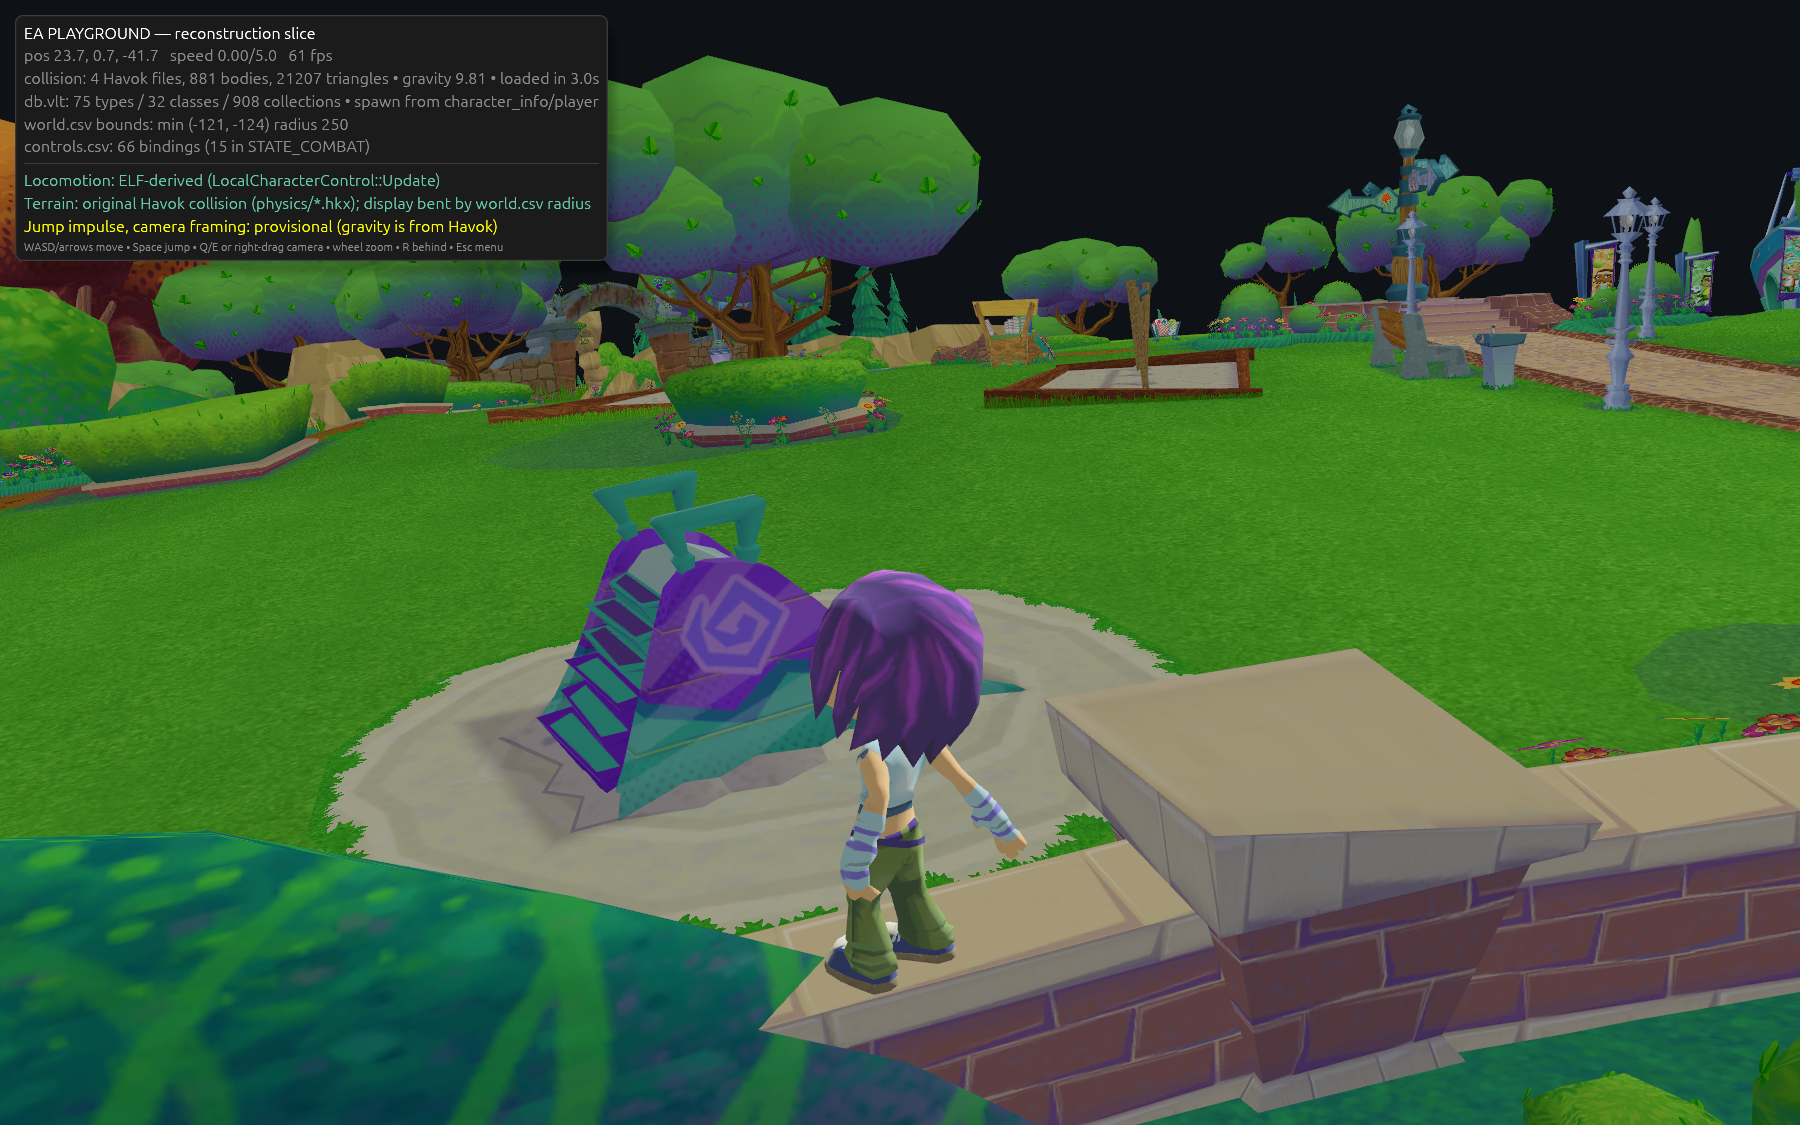
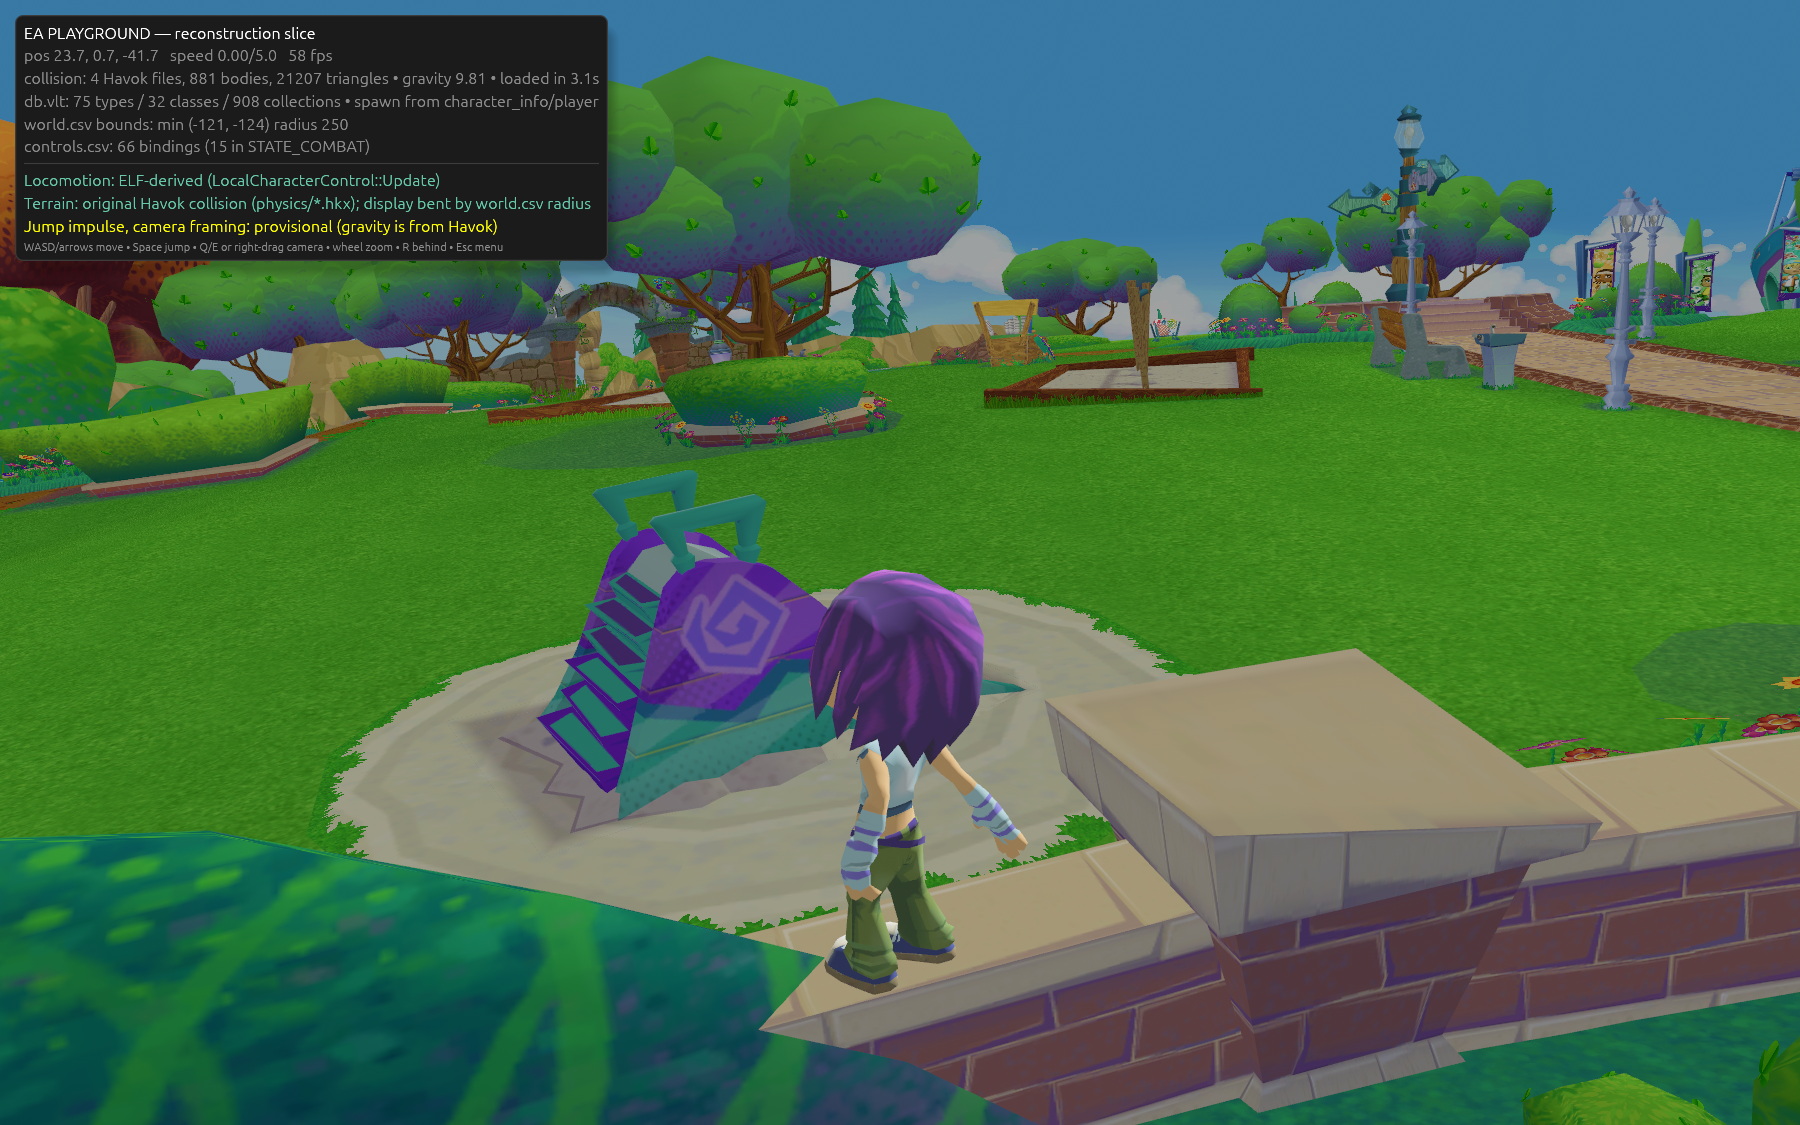
Add the SkyDome (skybox, mountain/city ring, rotating clouds) recovered from the executable
Sky was black; SkyDome::LoadGeometry/Draw/Update give the three layers, draw
order, origin placement and 0.012 rad/s cloud rotation. Rendered behind the
world by a dedicated sky camera.

Changed region(s): [[0.0, 0.0, 1.0, 0.3111], [0.2178, 0.2178, 0.4044, 0.3422], [0.0933, 0.3111, 0.1867, 0.3733]]

diff --git a/_bevy/src/game.rs b/_bevy/src/game.rs
@@ -2,7 +2,7 @@
 //! recovered locomotion (see `locomotion.rs`) drive a character.  Evidence per subsystem is shown
 //! in the HUD and written by `--selftest`; nothing here is labelled original unless it traces to
 //! the executable or a data file.
-use bevy::{prelude::*,render::view::window::screenshot::{Screenshot,save_to_disk},input::mouse::{AccumulatedMouseMotion,AccumulatedMouseScroll},window::{PrimaryWindow,RequestRedraw},winit::{WinitSettings,UpdateMode},world_serialization::WorldInstanceReady};
+use bevy::{camera::visibility::RenderLayers,prelude::*,render::view::window::screenshot::{Screenshot,save_to_disk},input::mouse::{AccumulatedMouseMotion,AccumulatedMouseScroll},window::{PrimaryWindow,RequestRedraw},winit::{WinitSettings,UpdateMode},world_serialization::WorldInstanceReady};
 use bevy_egui::{egui,EguiContexts,EguiTextureHandle};
 use serde::{Deserialize,Serialize};
 use serde_json::{Value,json};
@@ -37,6 +37,11 @@ pub fn bend(radius:f32,x:f32,z:f32)->f32{if radius<=0.{return 0.}let r2=(x*x+z*z
 #[derive(Component)] pub struct Player{loco:Locomotion,vy:f32,grounded:bool,speed:f32,facing:Vec3,weights:[f32;3],anim_ready:bool}
 #[derive(Component)] struct WorldLayer(String);
 #[derive(Component)] struct PlayerModel;
+/// SkyDome layers (`SkyDome::LoadGeometry` 0x803c6578): skybox, mountain/city ring, clouds; only the clouds turn.
+#[derive(Component)] struct SkyLayer{clouds:bool}
+#[derive(Component)] struct SkyCamera;
+const SKY_LAYER:usize=1;
+const SKY_MODELS:[(&str,bool);3]=[("skybox",false),("skybox_mountain_city_ring",false),("skybox_clouds",true)];
 
 #[derive(Resource,Default)] pub struct GameInput{pub x:f32,pub y:f32,pub jump:bool,pub scripted:bool}
 
@@ -107,7 +112,7 @@ pub struct Game{
     bridge:Bridge,jobs:VecDeque<Job>,pending:Option<(u64,String)>,results:HashMap<String,Value>,
     phase:Phase,started:Instant,pub log:Vec<String>,boot_image:Option<Handle<Image>>,boot_egui:Option<egui::TextureId>,
     layers:Vec<(String,String)>,layers_expected:usize,layers_ready:usize,layers_empty:usize,clip_handles:Vec<Handle<AnimationClip>>,
-    ground:Option<Ground>,build_wait:u32,player:Option<Entity>,pub spawn:Vec3,pub gravity:f32,pub world_radius:f32,pub collision_bodies:usize,pub collision_files:usize,
+    ground:Option<Ground>,build_wait:u32,player:Option<Entity>,pub spawn:Vec3,pub gravity:f32,pub world_radius:f32,sky_expected:usize,sky_ready:usize,sky_angle:f32,pub collision_bodies:usize,pub collision_files:usize,
     pub db_summary:String,pub start_dir:Vec3,pub spawn_from_db:bool,pub tri_count:usize,pub controls_rows:usize,pub combat_bindings:usize,pub world_bounds:Option<(f32,f32,f32)>,
     boot_shown:Option<Instant>,boot_shot:bool,pub load_seconds:f32,
     pub selftest:Option<SelfTest>,
@@ -135,6 +140,7 @@ impl Game{
         jobs.push_back(Job{key:"controls".into(),req:json!({"command":"inspect","source":format!("{}::controls.csv",src("csvs.viv"))})});
         let model=format!("{}::alicia.viv::alicia.o",src("characters/models/characters.viv"));
         let skel=format!("{}::player_skel.ske",src("characters/player_anims.viv"));let bank=format!("{}::player_anims.anm",src("characters/player_anims.viv"));
+        for (name,_) in SKY_MODELS{jobs.push_back(Job{key:format!("sky:{name}"),req:json!({"command":"preview","source":format!("{}::{name}.o",src(&format!("placeables/{name}.viv")))})});}
         for (name,index) in CLIPS{jobs.push_back(Job{key:format!("clip:{name}"),req:json!({"command":"preview","source":model,"skeleton":skel,"bank":bank,"index":index})});}
         // Player start from the game's own Attrib database (character_info/player), read by the Rust vault loader.
         let mut db_results=HashMap::new();
@@ -156,7 +162,7 @@ impl Game{
         }
         let mut g=Self{bridge:Bridge::start(),jobs,pending:None,results:HashMap::new(),phase:Phase::Loading,started:Instant::now(),log,
             boot_image:None,boot_egui:None,layers:vec![],layers_expected:0,layers_ready:0,layers_empty:0,clip_handles:vec![],ground:None,build_wait:0,player:None,spawn:Vec3::ZERO,
-            gravity:9.81,world_radius:0.,collision_bodies:0,collision_files:0,db_summary:String::new(),start_dir:Vec3::Z,spawn_from_db:false,tri_count:0,controls_rows:0,combat_bindings:0,world_bounds:None,boot_shown:None,boot_shot:false,load_seconds:0.,selftest};
+            gravity:9.81,world_radius:0.,sky_expected:0,sky_ready:0,sky_angle:0.,collision_bodies:0,collision_files:0,db_summary:String::new(),start_dir:Vec3::Z,spawn_from_db:false,tri_count:0,controls_rows:0,combat_bindings:0,world_bounds:None,boot_shown:None,boot_shot:false,load_seconds:0.,selftest};
         // (fields set below)
         g.apply_db(db_results);g
     }
@@ -165,7 +171,7 @@ impl Game{
 fn in_game(mode:Res<AppMode>)->bool{*mode==AppMode::Game}
 pub fn plugin(app:&mut App){
     app.init_resource::<GameInput>().insert_resource(Time::<Fixed>::from_hz(TICK_HZ as f64))
-        .add_systems(Update,(pump,build,read_input,camera,animate,selftest).chain().run_if(in_game))
+        .add_systems(Update,(pump,build,read_input,camera,sky_update,animate,selftest).chain().run_if(in_game))
         .add_systems(bevy_egui::EguiPrimaryContextPass,hud.run_if(in_game))
         .add_systems(FixedUpdate,movement.run_if(in_game));
 }
@@ -214,6 +220,14 @@ fn pump(mut commands:Commands,mut g:Option<ResMut<Game>>,assets:Res<AssetServer>
                     let _=e;g.layers.push((name,p));
                 }
             }
+            k if k.starts_with("sky:")=>{
+                if let Some(p)=scene_path(&value){
+                    let name=k.trim_start_matches("sky:");let clouds=SKY_MODELS.iter().any(|(n,c)|*n==name&&*c);
+                    commands.spawn((GameEntity,SkyLayer{clouds},RenderLayers::layer(SKY_LAYER),WorldAssetRoot(assets.load(GltfAssetLabel::Scene(0).from_asset(p))),Transform::IDENTITY,
+                        OriginalAsset{evidence:EvidenceLevel::AssetDerived,source:value["source"].as_str().unwrap_or("").into(),decoder_version:value["decoder_version"].as_str().unwrap_or("").into()})).observe(sky_ready);
+                    g.sky_expected+=1;
+                }
+            }
             k if k.starts_with("clip:")=>{
                 let p=scene_path(&value).unwrap_or_default();
                 g.clip_handles.push(assets.load(GltfAssetLabel::Animation(0).from_asset(p.clone())));
@@ -229,12 +243,31 @@ fn pump(mut commands:Commands,mut g:Option<ResMut<Game>>,assets:Res<AssetServer>
     }
     if g.pending.is_none(){
         if let Some(job)=g.jobs.pop_front(){let id=g.bridge.request(job.req);g.pending=Some((id,job.key));}
-        else if g.layers_ready>=g.layers_expected && g.clip_handles.len()==CLIPS.len(){
+        else if g.layers_ready>=g.layers_expected && g.sky_ready>=g.sky_expected && g.clip_handles.len()==CLIPS.len(){
             let _=&mut graphs;
             let boot_done=g.boot_shown.map(|t|t.elapsed().as_secs_f32()>=MIN_BOOT_SECONDS).unwrap_or(g.boot_image.is_none());
             if boot_done{g.phase=Phase::Building;g.log.push("world and player assets ready".into());}
         }
     }
+}
+
+/// Sky layers are unlit, double-sided, and confined to the sky render layer (drawn by the sky camera behind the world).
+fn sky_ready(ev:On<WorldInstanceReady>,mut commands:Commands,mut g:Option<ResMut<Game>>,children:Query<&Children>,mats:Query<&MeshMaterial3d<StandardMaterial>>,mut materials:ResMut<Assets<StandardMaterial>>){
+    for d in children.iter_descendants(ev.entity){
+        commands.entity(d).insert(RenderLayers::layer(SKY_LAYER));
+        if let Ok(m)=mats.get(d){if let Some(mut mat)=materials.get_mut(&m.0){mat.unlit=true;mat.cull_mode=None;mat.double_sided=true;}}
+    }
+    if let Some(g)=g.as_mut(){g.sky_ready+=1;let n=g.sky_ready;g.log.push(format!("sky layer ready ({n})"));}
+}
+
+/// `SkyDome::Update` (0x803c6694): the cloud layer's angle advances by 0.012 rad/s (wrapped at 2 pi); `Draw` (0x803c6724)
+/// rotates only the cloud model about Y.  The sky sits at the origin (`Initialise` 0x803c64d0), it does not follow the camera.
+const SKY_CLOUD_RATE:f32=0.012;
+fn sky_update(g:Option<ResMut<Game>>,time:Res<Time>,mut layers:Query<(&SkyLayer,&mut Transform),(Without<SkyCamera>,Without<GameCamera>)>,main:Query<&Transform,With<GameCamera>>,mut sky_cam:Query<&mut Transform,(With<SkyCamera>,Without<GameCamera>,Without<SkyLayer>)>){
+    let Some(mut g)=g else{return};
+    g.sky_angle=(g.sky_angle+SKY_CLOUD_RATE*time.delta_secs())%std::f32::consts::TAU;
+    for (l,mut t) in &mut layers{if l.clouds{t.rotation=Quat::from_rotation_y(g.sky_angle);}}
+    if let (Ok(m),Ok(mut c))=(main.single(),sky_cam.single_mut()){*c=*m;}
 }
 
 fn layer_ready(_e:On<WorldInstanceReady>,mut g:Option<ResMut<Game>>){if let Some(g)=g.as_mut(){g.layers_ready+=1;let n=g.layers_ready;g.log.push(format!("world layer ready ({n})"));}}
@@ -300,7 +333,11 @@ fn build(mut commands:Commands,mut g:Option<ResMut<Game>>,assets:Res<AssetServer
             }}
         });
     g.player=Some(player);
-    if cam.is_empty(){commands.spawn((GameEntity,GameCamera{yaw:(-g.start_dir.x).atan2(-g.start_dir.z),pitch:0.28,distance:k::HINGE_CAMERA_DISTANCE},Camera3d::default(),Transform::from_translation(g.spawn+Vec3::new(0.,2.,4.))));}
+    if cam.is_empty(){
+        // Sky camera (order -1) draws the sky layer first; the world camera keeps that colour buffer and adds the world on top.
+        commands.spawn((GameEntity,SkyCamera,Camera3d::default(),Camera{order:-1,..default()},RenderLayers::layer(SKY_LAYER),Transform::from_translation(g.spawn+Vec3::new(0.,2.,4.))));
+        commands.spawn((GameEntity,GameCamera{yaw:(-g.start_dir.x).atan2(-g.start_dir.z),pitch:0.28,distance:k::HINGE_CAMERA_DISTANCE},Camera3d::default(),Camera{order:0,clear_color:ClearColorConfig::None,..default()},Transform::from_translation(g.spawn+Vec3::new(0.,2.,4.))));
+    }
     commands.spawn((GameEntity,DirectionalLight{illuminance:9000.,shadow_maps_enabled:false,..default()},Transform::from_rotation(Quat::from_euler(EulerRot::XYZ,-0.9,-0.5,0.))));
     g.log.push(format!("ground: {} triangles; spawn {:.1},{:.1},{:.1}",g.tri_count,g.spawn.x,g.spawn.y,g.spawn.z));
     g.phase=Phase::Playing;
@@ -477,6 +514,7 @@ fn selftest(mut commands:Commands,mut g:Option<ResMut<Game>>,mut input:ResMut<Ga
                 let mut checks=vec![];
                 let mut check=|name:&str,ok:bool,detail:String|checks.push(json!({"name":name,"ok":ok,"detail":detail}));
                 check("world layers spawned from worldfilelist.csv",g.layers_ready==g.layers_expected&&g.layers_expected+g.layers_empty==WORLD_SUFFIXES.len()*5,format!("{}/{} layers ready, {} empty draw lists skipped",g.layers_ready,g.layers_expected,g.layers_empty));
+                check("SkyDome layers (skybox, mountain/city ring, clouds) loaded",g.sky_expected==3&&g.sky_ready==3,format!("{}/{} layers ready; cloud angle {:.4} rad after the run",g.sky_ready,g.sky_expected,g.sky_angle));
                 check("Havok collision decoded from physics/*.hkx",g.tri_count>20_000&&g.collision_bodies>=500&&g.collision_files==4,format!("{} files, {} bodies, {} triangles",g.collision_files,g.collision_bodies,g.tri_count));
                 check("gravity read from hkWorldCinfo",(g.gravity-9.81).abs()<0.01,format!("gravity {:.3}",g.gravity));
                 check("world curvature radius from world.csv",g.world_radius>0.,format!("radius {}",g.world_radius));

diff --git a/_bevy/docs/RECONSTRUCTION.md b/_bevy/docs/RECONSTRUCTION.md
@@ -27,6 +27,8 @@ All 836 distinct model files are now accounted for: 828 geometry exports and eig
 | Analog stick path | Implemented, not wired | The gamepad feature is not enabled in this build, so only the keyboard (d-pad style) path runs. |
 | Player start | DataDerived | `character_info/player` in `db/db.vlt` (start_location 12, 0, -53; start_direction 0, 0, 1). The database is the game's Attrib vault, decoded with a loader layout recovered from `Attrib::Vault` (0x802d9800) and verified by `hash64` golden vectors from the original machine code. 75 types, 32 classes, 908 collections. |
 | Physics world | ExecutableDerived + DataDerived | Havok 4.6 class reflection (244 classes) recovered from the executable; `physics/*.hkx` decoded to rigid bodies and shapes (881 bodies, 21,207 triangles over 4 areas); gravity 9.81 from `hkWorldCinfo`. |
+| Sky | ExecutableDerived + AssetDerived | `SkyDome` class (skydome.cpp): `LoadGeometry` 0x803c6578 loads `skybox.o`, `skybox_mountain_city_ring.o`, `skybox_clouds.o` from `placeables/*.viv`; `Draw` 0x803c6724 draws them in that order at the sky origin (`Initialise` 0x803c64d0, translation 0; `SetPos` is only called by the paper-airplane minigame), rotating only the clouds; `Update` 0x803c6694 advances the cloud angle by 0.012 rad/s. Drawn behind the world by a dedicated camera. The original GX render state (z-mode value 0xFE) is not reproduced. |
+| Placeables | DataDerived (not yet spawned) | The `placeables` database class holds exact positions/orientations for the swingset, teeter-totter, gates, tetherball poles and RC tracks (25 collections). Not yet placed in the game slice. |
 | Walk/run selection | ExecutableDerived | `CharacterMovement::Update` (0x802ed784): idle at speed 0, walk while speed <= `CharacterState`+0x1c (2.5) + 0.001, run above. |
 | World layer list | DataDerived | `worldfilelist.csv` (5 areas x `-`/`-alpha`/`-fade`/`-alphafade`), bounds from `world.csv`, input events from `controls.csv`. Two variants have empty draw lists and are skipped, matching the model audit. |
 | World geometry, textures, Alicia, clips | AssetDerived | Existing decoders; see `HANDOFF.md`. |
